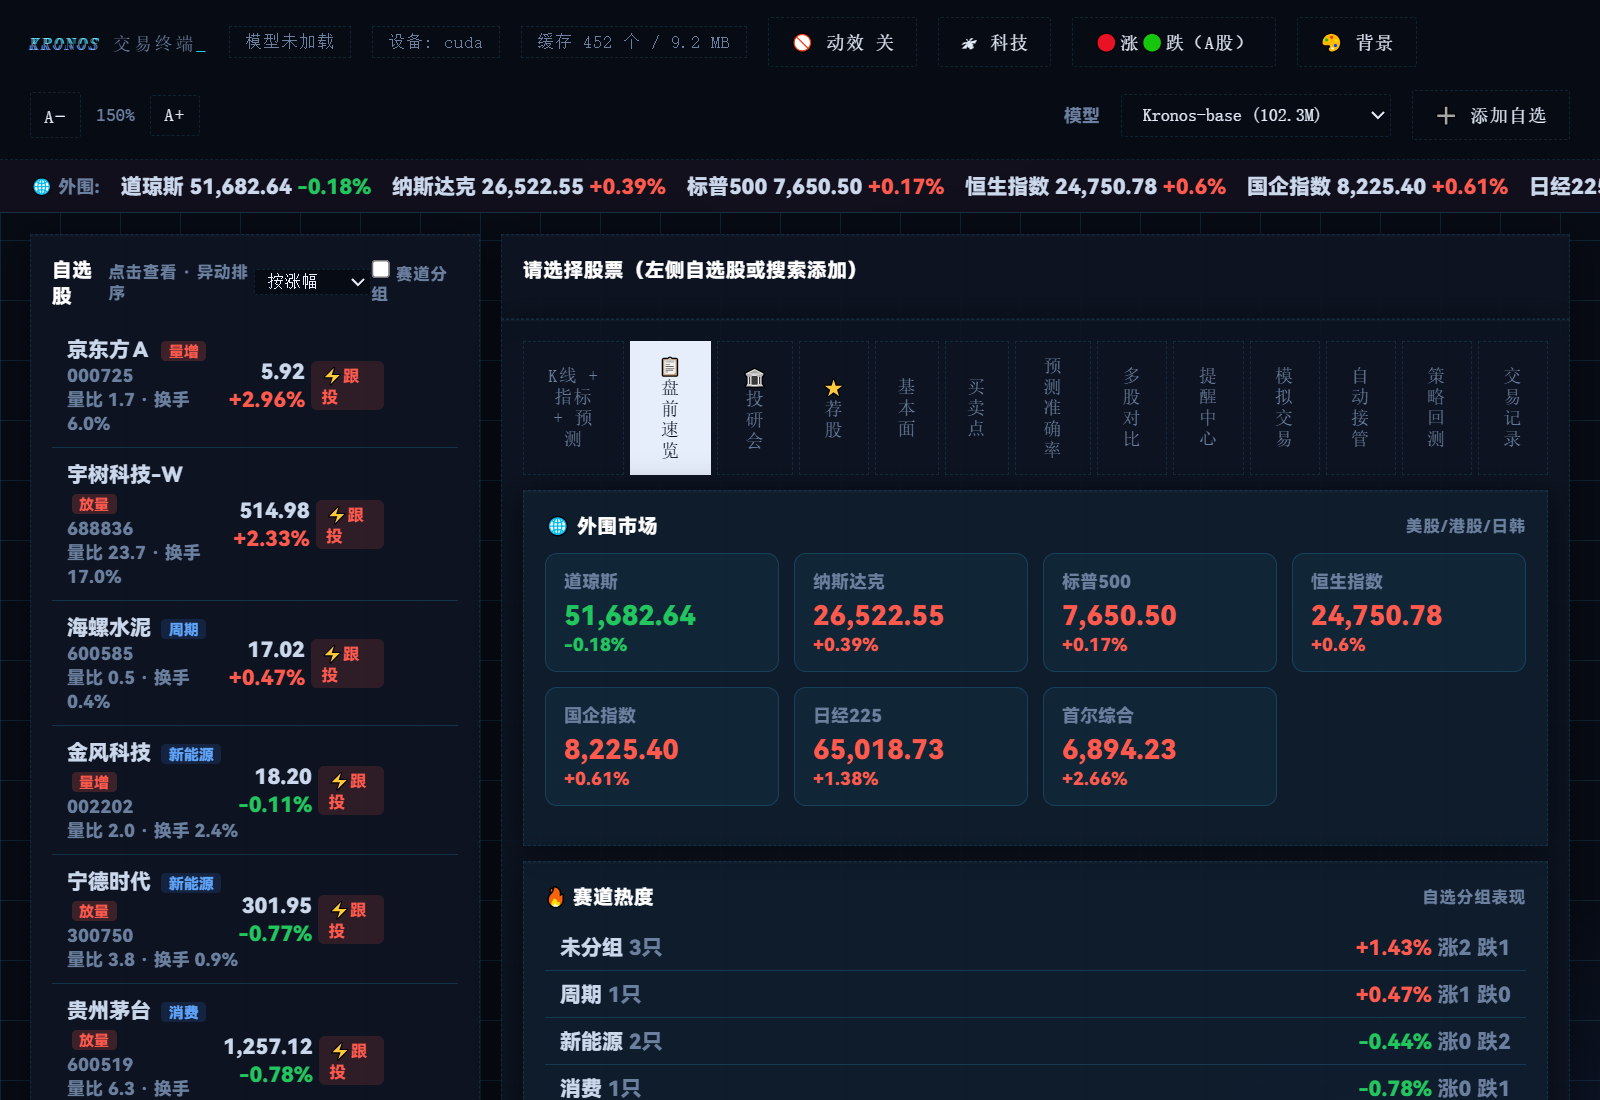
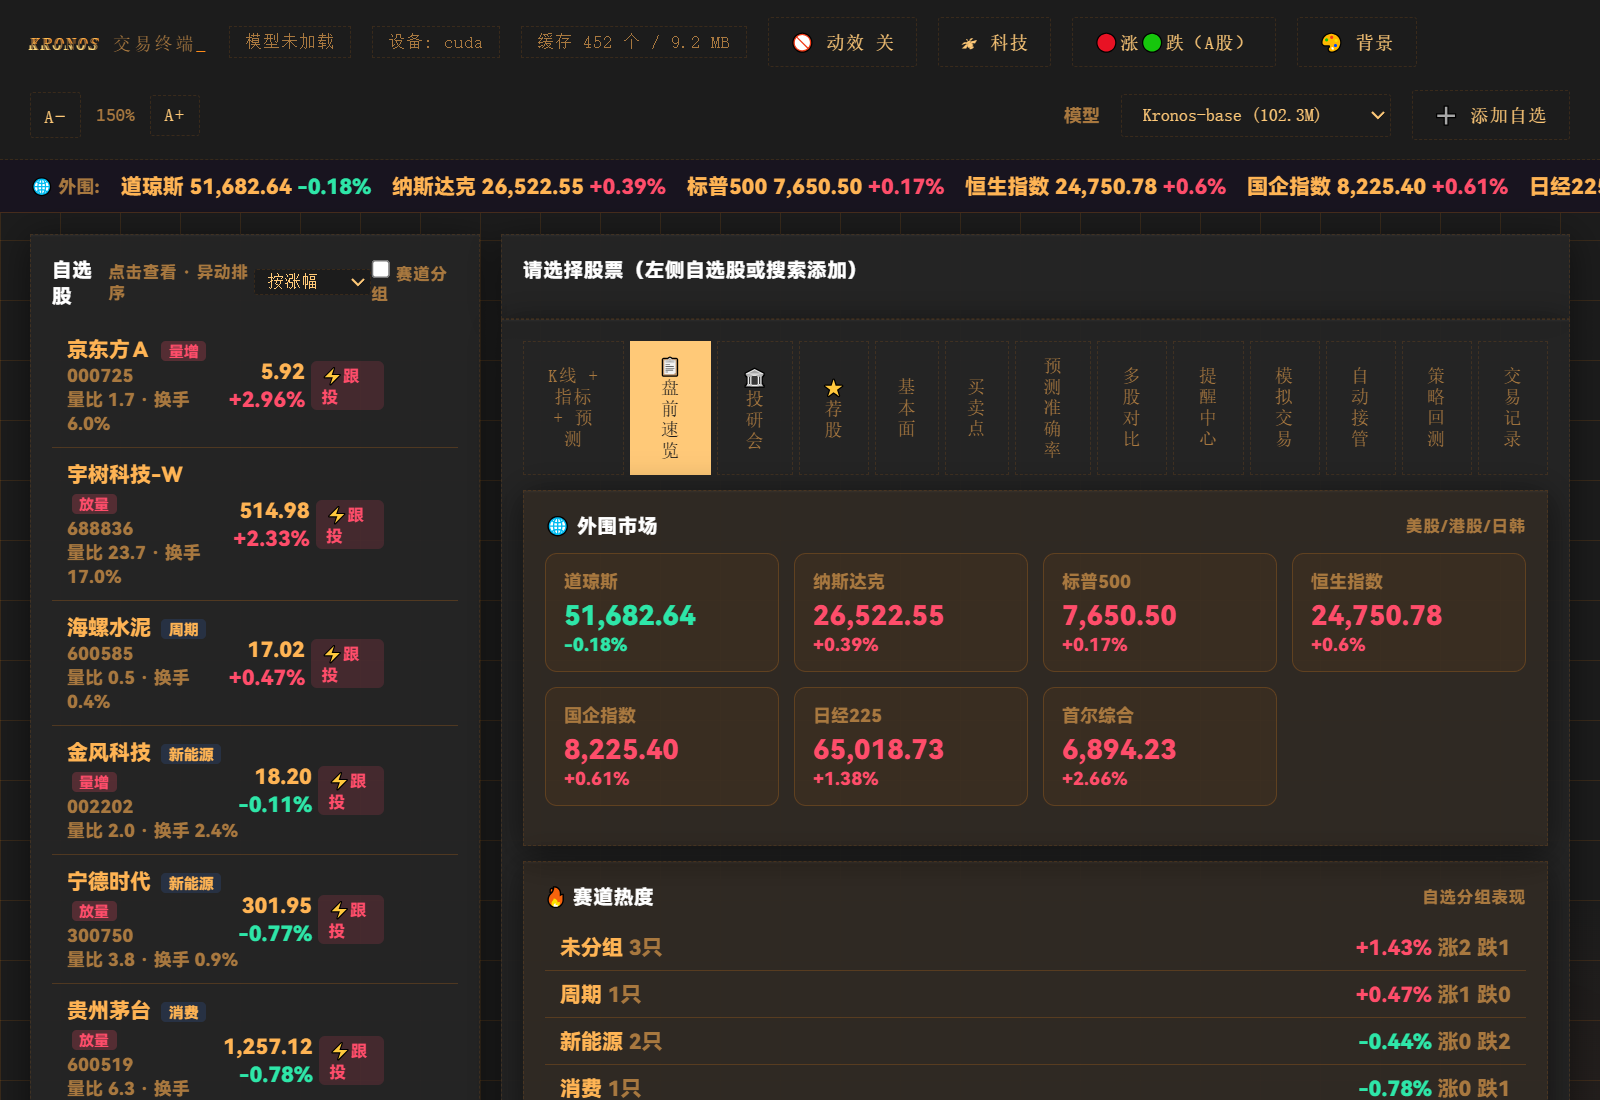
style: 主题改为深灰底 + 橙色文字（琥珀终端）
需求：深灰为底色，文字橙配色。

:root（默认主题）：
- --bg #1c1c1c 深灰底（用深灰而非纯黑，长时间看更舒服）
- --text #ffb454 琥珀橙正文，--muted #a8783f 暗橙次要文字
- --accent #ff8c1a 亮橙强调，--accent-2 #ffd166 暖黄次强调，--accent-3 #ff6b35 橙红点缀
- --border rgba(255,140,26,.20) / --line rgba(255,140,26,.13) 橙色细线与 40px 网格
- --panel rgba(36,36,36,.94) 深灰面板

涨跌配色同步调整（关键）：
橙色正文会和正红/正绿在色相上打架，所以改用偏品红的正红 #ff4d6a 与偏青的正绿 #2ee6a8，
与橙色正文拉开距离，避免看错涨跌。A 股红涨绿跌语义不变。

其它：
- 科技网格背景改为深灰底 + 橙色网格 + 橙/橙红双向光晕
- 图表底色/网格/字色同步（chartBg #1c1c1c / chartGrid 橙 / chartFont #ffb454）
- 浅色（TypeSafe）与赛博（霓虹绿）两套主题保持不变，顶栏仍可循环切换

实测（取像素）：
- 主色 #242424 26% / #1c1c1c 14.2% —— 深灰底确认
- 橙色系像素 4.54%
- 正文橙 vs 深灰底对比度 6.6:1，过 WCAG AA

测试：新增橙色语义判定与面板底断言，测试总数 327，全部通过

diff --git a/trading-app/templates/index.html b/trading-app/templates/index.html
@@ -9,36 +9,36 @@
 <script src="https://cdn.plot.ly/plotly-2.35.2.min.js"></script>
 <style>
 :root {
-    /* ==== 默认主题：科技风（深色 HUD / 精密线条 / 青蓝光）====
+    /* ==== 默认主题：深灰底 + 橙色文字（琥珀终端）====
        静态设计：不依赖任何动画，网格与描边都是纯 CSS。
-       若参考页有明确配色，改 --accent / --bg 两个值即可整体换肤。 */
-    --bg: #070b14;              /* 深空蓝黑 */
-    --bg-2: #0b1220;            /* 次级面板底 */
-    --panel: rgba(13, 20, 34, .92);
-    --panel-solid: #0b1220;
-    --panel2: rgba(56, 189, 248, .05);
-    --border: rgba(56, 189, 248, .18);      /* 科技感：细青色线与网格 */
-    --border-strong: rgba(56, 189, 248, .45);
-    --text: #cbd8ec;
-    --muted: #6b7f9e;
-    --accent: #22d3ee;          /* 青：主强调 */
-    --accent-2: #3b82f6;        /* 蓝：次强调 */
-    --accent-3: #8b5cf6;        /* 紫：点缀 */
-    --line: rgba(56, 189, 248, .14);
-    --ink: #e6eefc;
-    --paper: #070b14;
-    --paper-3: #16243d;
-    --magenta: #22d3ee;
-    --pink: #7dd3fc;
-    --neon: #22d3ee;
-    --teal: #2dd4bf;
+       想换肤只改下面 4 个值：--bg / --text / --accent / --border */
+    --bg: #1c1c1c;              /* 深灰底（不用纯黑，眼睛更舒服） */
+    --bg-2: #242424;            /* 次级面板底 */
+    --panel: rgba(36, 36, 36, .94);
+    --panel-solid: #242424;
+    --panel2: rgba(255, 140, 26, .05);
+    --border: rgba(255, 140, 26, .20);      /* 橙色细线与网格 */
+    --border-strong: rgba(255, 140, 26, .48);
+    --text: #ffb454;            /* 主文字：琥珀橙（对比度约 9:1） */
+    --muted: #a8783f;           /* 次要文字：暗橙 */
+    --accent: #ff8c1a;          /* 强调：亮橙 */
+    --accent-2: #ffd166;        /* 次强调：暖黄 */
+    --accent-3: #ff6b35;        /* 点缀：橙红 */
+    --line: rgba(255, 140, 26, .13);
+    --ink: #ffc978;
+    --paper: #1c1c1c;
+    --paper-3: #333333;
+    --magenta: #ff8c1a;
+    --pink: #ffd166;
+    --neon: #ff8c1a;
+    --teal: #d9a441;
     --stroke-w: 1px;
-    /* 语义色 */
-    --green: #22c55e; --red: #ef4444;
-    --blue: #60a5fa; --amber: #f5a524;
-    /* 涨跌：深色底用亮红亮绿（A 股红涨绿跌） */
-    --up: #ff5a4d; --up-bg: rgba(255,90,77,.14); --up-bg-strong: rgba(255,90,77,.20);
-    --down: #22c55e; --down-bg: rgba(34,197,94,.14); --down-bg-strong: rgba(34,197,94,.20);
+    /* 语义色（在深灰底上提亮保证对比度） */
+    --green: #3ddc84; --red: #ff5252;
+    --blue: #ffb454; --amber: #ffd166;
+    /* 涨跌：A 股红涨绿跌。橙色文字下用偏品红的正红 / 偏青的正绿，避免和橙色混淆 */
+    --up: #ff4d6a; --up-bg: rgba(255,77,106,.15); --up-bg-strong: rgba(255,77,106,.22);
+    --down: #2ee6a8; --down-bg: rgba(46,230,168,.14); --down-bg-strong: rgba(46,230,168,.20);
 }
 /* 浅色主题：TypeSafe AI（可切换） */
 html[data-theme="light"] {
@@ -167,11 +167,11 @@ body { color: var(--text); font-size: 14px; min-height: 100vh;
 .chrome-edge::after { bottom: -1px; right: -1px;
     background: linear-gradient(0deg, var(--accent-2), transparent) 100% 100% / 1px 16px no-repeat,
                 linear-gradient(270deg, var(--accent-2), transparent) 100% 100% / 16px 1px no-repeat; }
-/* 科技风静态背景：深空底 + 青色精密网格 + 顶部光晕（无任何动画） */
+/* 深灰底 + 橙色精密网格（静态，无动画） */
 #tech-bg { position: fixed; inset: 0; z-index: 0; pointer-events: none; display: block;
     background:
-        radial-gradient(ellipse 60% 45% at 50% -8%, rgba(34, 211, 238, .10), transparent 62%),
-        radial-gradient(ellipse 45% 40% at 88% 104%, rgba(59, 130, 246, .10), transparent 62%),
+        radial-gradient(ellipse 60% 45% at 50% -8%, rgba(255, 140, 26, .07), transparent 62%),
+        radial-gradient(ellipse 45% 40% at 88% 104%, rgba(255, 107, 53, .06), transparent 62%),
         var(--bg); }
 #tech-bg::after { content: ''; position: absolute; inset: 0;
     background-image:
@@ -1277,16 +1277,16 @@ applyScale(uiScale());
 // 图表底色/网格/字色跟随主题（Plotly 需要具体颜色值，不能用 CSS 变量）
 function chartBg() {
     var t = currentTheme();
-    return t === 'light' ? '#fefefe' : (t === 'cyber' ? '#171122' : '#070b14');
+    return t === 'light' ? '#fefefe' : (t === 'cyber' ? '#171122' : '#1c1c1c');
 }
 function chartGrid() {
     var t = currentTheme();
     return t === 'light' ? 'rgba(136,136,136,.22)'
-        : (t === 'cyber' ? 'rgba(137,106,189,.18)' : 'rgba(56,189,248,.16)');
+        : (t === 'cyber' ? 'rgba(137,106,189,.18)' : 'rgba(255,140,26,.16)');
 }
 function chartFont() {
     var t = currentTheme();
-    return t === 'light' ? '#1e1e1e' : (t === 'cyber' ? '#E9E3F5' : '#cbd8ec');
+    return t === 'light' ? '#1e1e1e' : (t === 'cyber' ? '#E9E3F5' : '#ffb454');
 }
 
 var THEMES = ['tech', 'light', 'cyber'];

diff --git a/trading-app/tests/new_features.py b/trading-app/tests/new_features.py
@@ -69,6 +69,12 @@ def _is_red(hx):
     return r > g + 40 and r > b + 40
 
 
+def _is_orange(hx):
+    """语义判定：R 高、G 中、B 低 → 橙/琥珀"""
+    r, g, b = _rgb(hx)
+    return r > 150 and r > b + 80 and g > b
+
+
 def _is_green(hx):
     r, g, b = _rgb(hx)
     return g > r + 40 and g > b + 40
@@ -392,11 +398,13 @@ check("需求对照表已用 wrap-cells", 'class="wrap-cells"' in page)
 
 print("\n=== 15. 科技风主题（默认，静态） ===")
 check("默认主题为 tech", 'data-theme="tech"' in page or "return 'tech'" in page)
-check("深空蓝黑底 #070b14", '--bg: #070b14' in page)
-check("青色主强调 #22d3ee", '--accent: #22d3ee' in page)
-check("蓝色次强调 #3b82f6", '--accent-2: #3b82f6' in page)
-check("浅灰蓝正文 #cbd8ec", '--text: #cbd8ec' in page)
-check("青色细线边框", '--border: rgba(56, 189, 248, .18)' in page)
+check("深灰底 #1c1c1c", '--bg: #1c1c1c' in page)
+check("橙色主强调 #ff8c1a", '--accent: #ff8c1a' in page)
+check("暖黄次强调 #ffd166", '--accent-2: #ffd166' in page)
+check("橙色正文 #ffb454", '--text: #ffb454' in page)
+check("正文确为橙色系（语义判定）", _is_orange(_first_hex(page, "--text")), _first_hex(page, "--text"))
+check("面板底为深灰 #242424", '--panel-solid: #242424' in page)
+check("橙色细线边框", '--border: rgba(255, 140, 26, .20)' in page or '--border: rgba(255,140,26,.20)' in page)
 check("科技网格背景层", 'id="tech-bg"' in page and 'background-size: 40px 40px' in page)
 check("直角（科技风保持直角）", 'border-radius: 0' in page)
 check("深色底涨跌用亮红亮绿",
